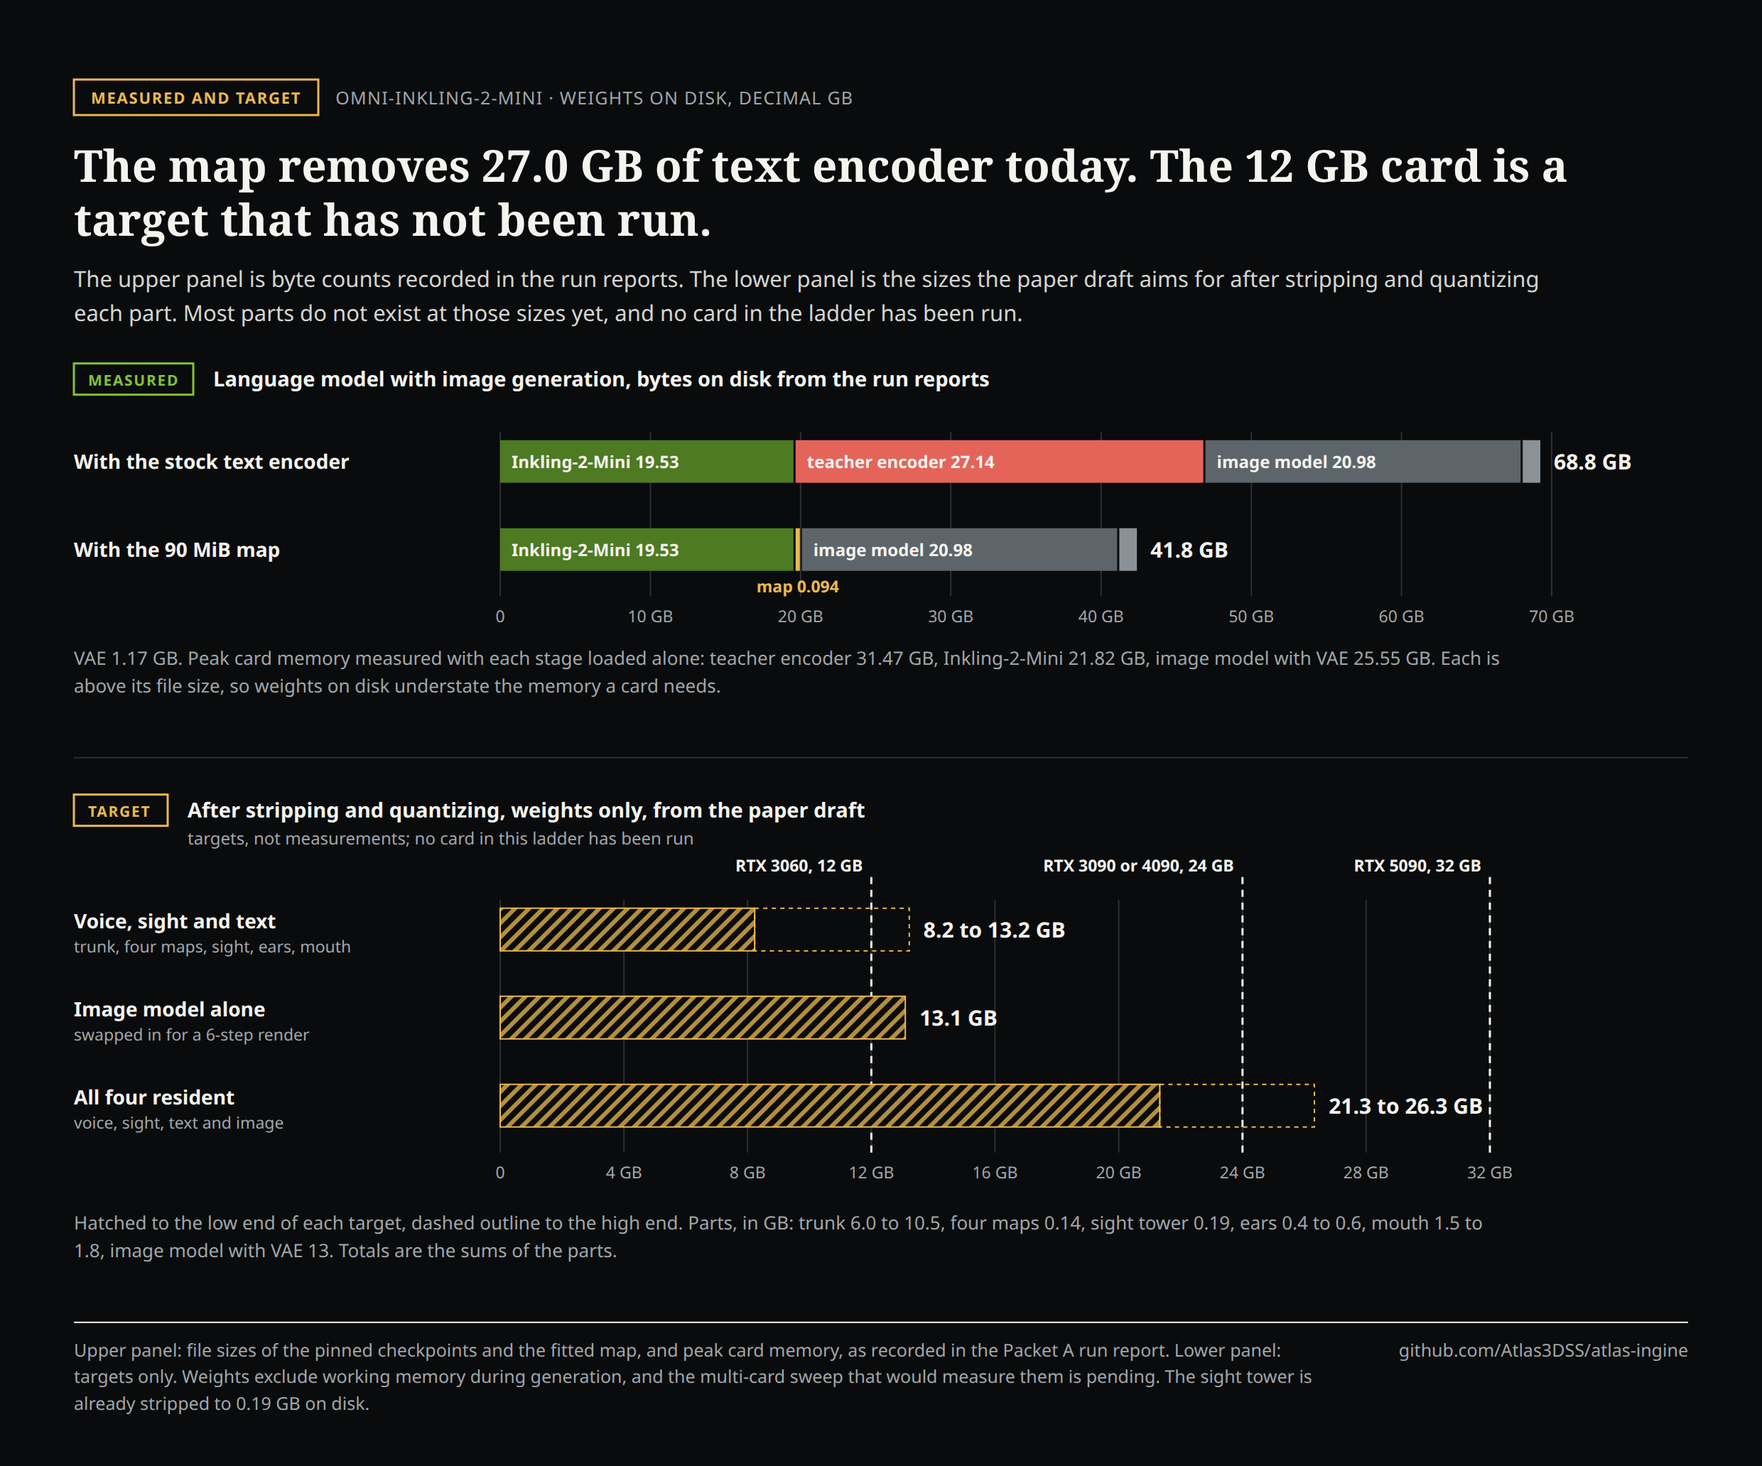
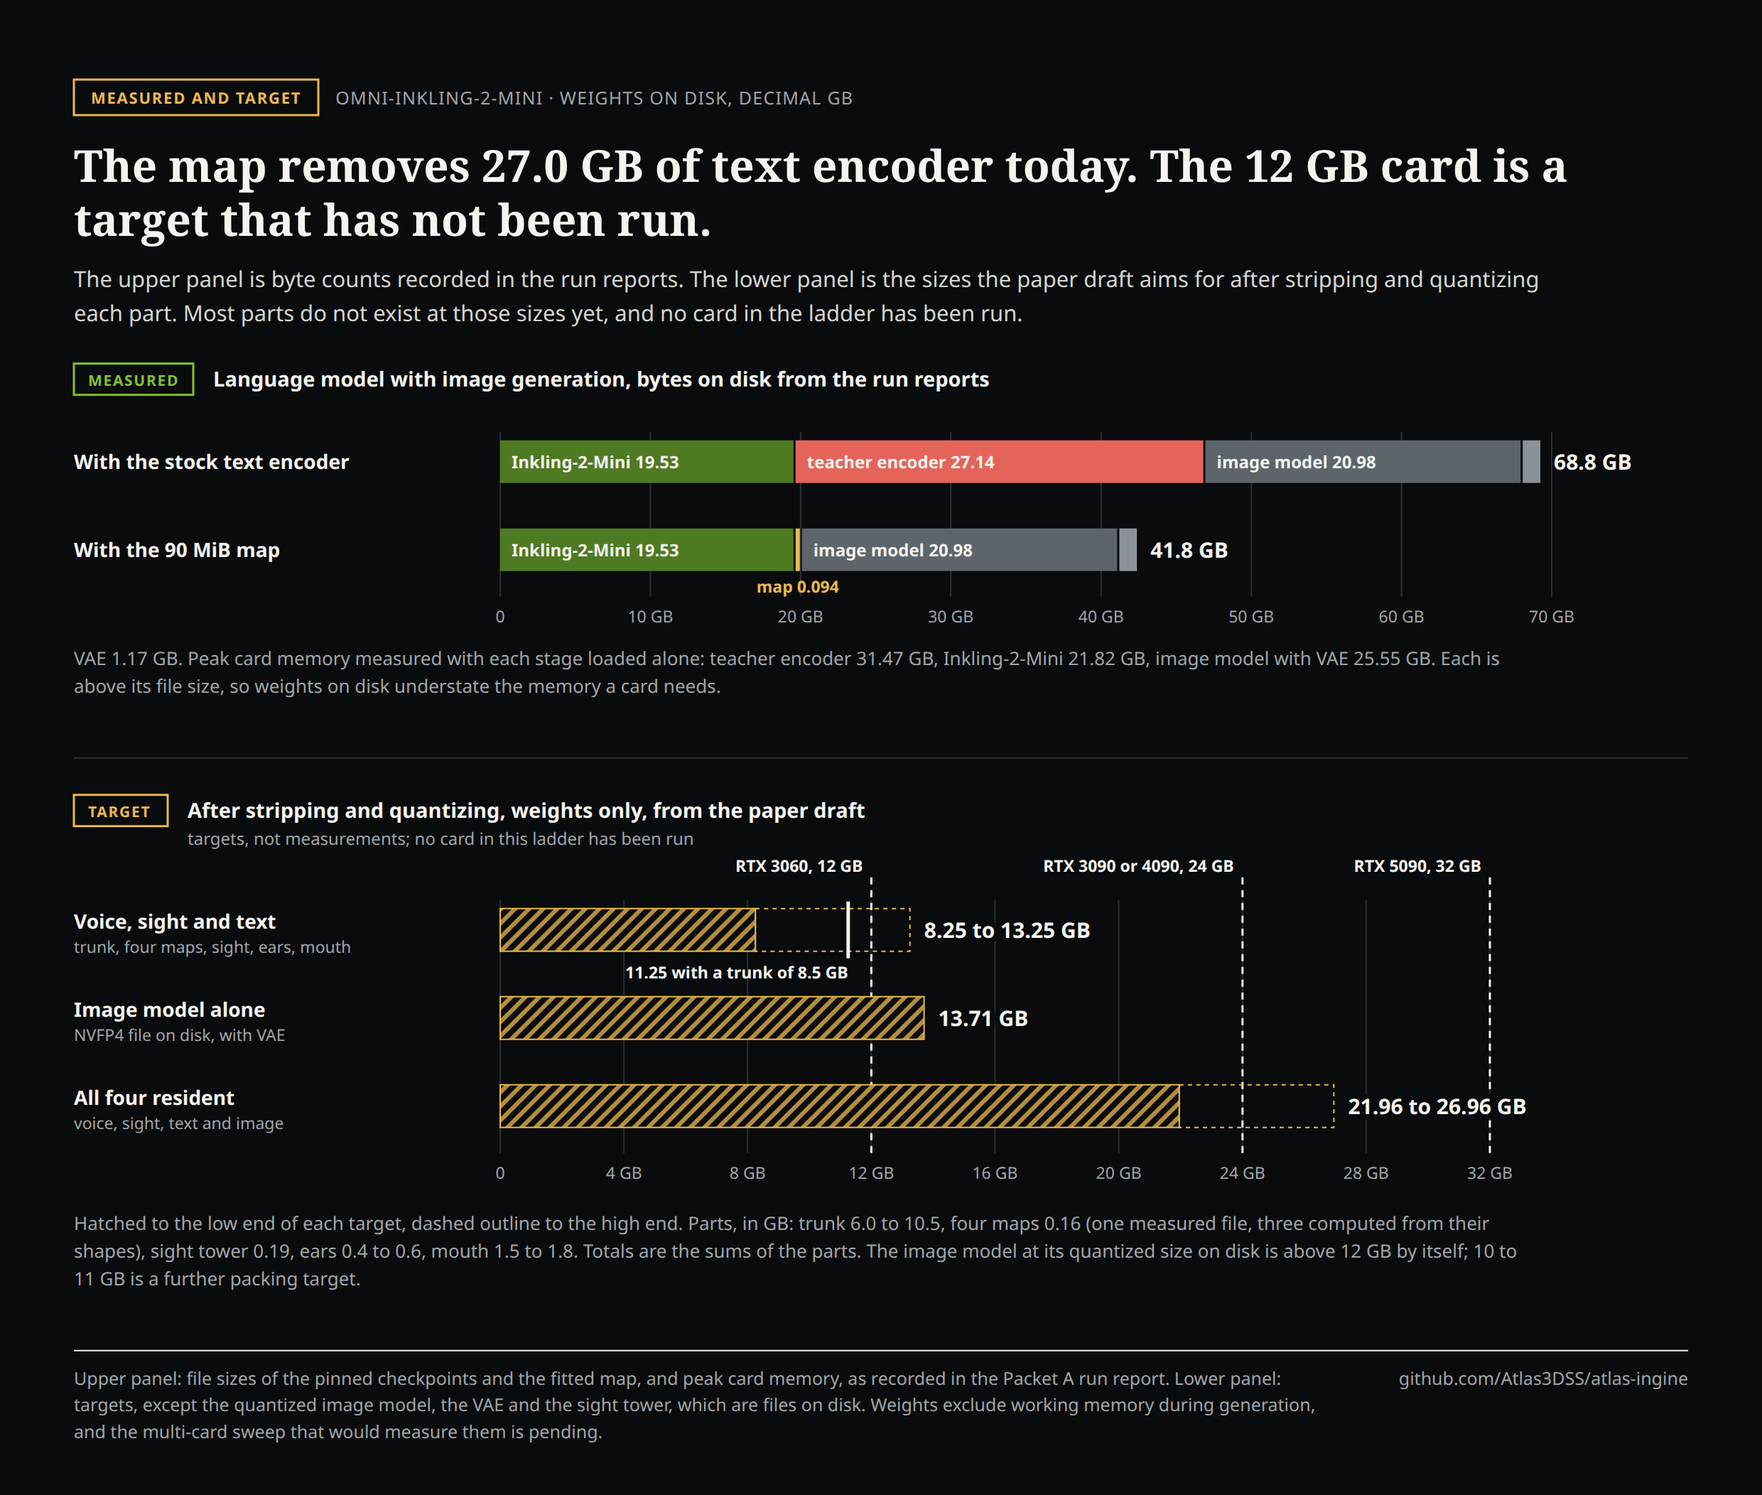
docs(912): fix exact 12.54/13.71/21.96-26.96 GB NVFP4 H3 sizes, embed all 3 figures, and lock Packet D YuE2 singing

diff --git a/modules/zero_gradient_omni_modal_grafting/figures/build_figures.py b/modules/zero_gradient_omni_modal_grafting/figures/build_figures.py
@@ -17,6 +17,7 @@ ap = argparse.ArgumentParser()
 ap.add_argument('--packet-a', default=f'{RUNS}/h3_platos_key_phase0_24p_a8146fa7/h3_platos_key_phase0_report.json')
 ap.add_argument('--packet-b', default=f'{RUNS}/vision_ridge_norm_dev_val192/vision_ridge_norm_dev_report.json')
 ap.add_argument('--strip', default=f'{RUNS}/phase0_912_spinup/packetB2_ocr_towers_strip_verify_report.json')
+ap.add_argument('--image-nvfp4', default=os.path.expanduser('~/dev_genius/models/minimax_h3_image_pruned_nvfp4.safetensors'))
 ap.add_argument('--paper', default=os.path.join(HERE, '..', 'PAPER.md'))
 ap.add_argument('--no-png', action='store_true')
 ARGS = ap.parse_args()
@@ -231,15 +232,27 @@ assert DIT_B == MF['dit_h3_image_int8_convrot_plus_vae']['dit_disk_bytes'] and V
 SEC6 = PAPER.split('## 6. System Footprint')[1].split('\n## ')[0]
 
 
+SEC62 = SEC6.split('### 6.2')[1]
+
+
+def trow(label): return next(line.split('|') for line in SEC62.splitlines() if line.startswith('|') and label in line.split('|')[1])
+
+
 def target(label):
-    """Low and high end, in GB, of the target column for one row of the paper's size table."""
-    row = next(line for line in SEC6.splitlines() if line.startswith('|') and label in line.split('|')[1])
-    m = re.search(r'([\d.]+)(?:[' + chr(0x2013) + r'-]([\d.]+))?\s*GB', row.split('|')[3]); return float(m.group(1)), float(m.group(2) or m.group(1))
+    """Low and high end, in GB, of the target cell for one row of the paper's projected-size table."""
+    m = re.search(r'\*\*([\d.]+)(?:' + chr(0x2013) + r'([\d.]+))?\*\*', trow(label)[2]); return float(m.group(1)), float(m.group(2) or m.group(1))
 
 
-TG = {k: target(lab) for k, lab in (('trunk', 'Trunk'), ('maps', 'Bridges'), ('sight', 'Sight'), ('ears', 'Ears'), ('mouth', 'Mouth'), ('image', 'Diffusion'))}
-VST = [sum(TG[k][i] for k in ('trunk', 'maps', 'sight', 'ears', 'mouth')) for i in (0, 1)]; ALL = [VST[i] + TG['image'][i] for i in (0, 1)]
-assert abs(gb(ST['got_ocr2']['stripped_bytes']) - TG['sight'][0]) < 0.01  # the sight target is the stripped tower already on disk
+TG = {k: target(lab) for k, lab in (('trunk', 'Trunk'), ('maps', 'Bridges'), ('sight', 'Sight'), ('ears', 'Ears'), ('mouth', 'Mouth'))}
+CAP = float(re.search(r'<=([\d.]+) GB', trow('Trunk')[2]).group(1))  # largest trunk the paper allows on a 12 GB card
+PACK = tuple(float(v) for v in re.search(r'~([\d.]+)' + chr(0x2013) + r'([\d.]+) GB', trow('Diffusion Image')[2]).groups())
+# The quantized image model is a file on disk, so its size is read from the file, not from the table.
+NV_B = os.path.getsize(ARGS.image_nvfp4); IMG = gb(NV_B + VAE_B); SOURCES[os.path.basename(ARGS.image_nvfp4) + ' (bytes)'] = NV_B
+REST = [sum(TG[k][i] for k in ('maps', 'sight', 'ears', 'mouth')) for i in (0, 1)]
+VST = [TG['trunk'][i] + REST[i] for i in (0, 1)]; VCAP = CAP + REST[1]; ALL = [VST[i] + IMG for i in (0, 1)]
+assert tuple(round(v, 2) for v in VST) == target('Voice + Sight + Text') and abs(gb(ST['got_ocr2']['stripped_bytes']) - TG['sight'][0]) < 0.01
+for nm, mine, theirs in (('image model with VAE', (IMG, IMG), target('Diffusion Image')), ('all four', tuple(ALL), target('Full 4-Modality'))):
+    if any(abs(a_ - b_) > 0.05 for a_, b_ in zip(mine, theirs)): print(f'NOTE: {nm}: files give {mine[0]:.2f} to {mine[1]:.2f} GB, PAPER.md states {theirs[0]:.2f} to {theirs[1]:.2f}')
 
 
 def rng(lo_hi, d=1): return f'{lo_hi[0]:.{d}f}' if lo_hi[0] == lo_hi[1] else f'{lo_hi[0]:.{d}f} to {lo_hi[1]:.{d}f}'
@@ -272,17 +285,18 @@ def fig3():
     s += f'<rect x="{M}" y="{y - 14}" width="66" height="22" fill="none" stroke="{AMBER}" stroke-width="1.5"/>' + t(M + 10, y + 1.5, 'TARGET', 10.5, AMBER, 'start', 700, ls='0.08em') + t(M + 80, y + 2, 'After stripping and quantizing, weights only, from the paper draft', 14.5, INK, 'start', 700) + t(M + 80, y + 21, 'targets, not measurements; no card in this ladder has been run', 12, SEC)
     y += 66; sc2 = (x1 - x0) / 34
     s += f'<defs><pattern id="hatch" width="7" height="7" patternUnits="userSpaceOnUse" patternTransform="rotate(45)"><rect width="7" height="7" fill="{BG}"/><rect width="3" height="7" fill="{AMBER}" fill-opacity="0.75"/></pattern></defs>'
-    trows = [('Voice, sight and text', 'trunk, four maps, sight, ears, mouth', VST), ('Image model alone', 'swapped in for a 6-step render', list(TG['image'])), ('All four resident', 'voice, sight, text and image', ALL)]
+    trows = [('Voice, sight and text', 'trunk, four maps, sight, ears, mouth', VST), ('Image model alone', 'NVFP4 file on disk, with VAE', [IMG, IMG]), ('All four resident', 'voice, sight, text and image', ALL)]
     for v in range(0, 35, 4): s += f'<line x1="{x0 + v * sc2:.1f}" x2="{x0 + v * sc2:.1f}" y1="{y - 6}" y2="{y + 3 * 62 - 14}" stroke="{RULE}"/>' + t(x0 + v * sc2, y + 3 * 62 + 4, f'{v} GB' if v else '0', 11.5, SEC, 'middle')
     for v, card in ((12, 'RTX 3060, 12 GB'), (24, 'RTX 3090 or 4090, 24 GB'), (32, 'RTX 5090, 32 GB')):
         s += f'<line x1="{x0 + v * sc2:.1f}" x2="{x0 + v * sc2:.1f}" y1="{y - 22}" y2="{y + 3 * 62 - 14}" stroke="{INK}" stroke-width="1.5" stroke-dasharray="5 4"/>' + t(x0 + v * sc2 - 6, y - 26, card, 11.5, INK, 'end', 700)
     for i, (lab, sub, (lo, hi)) in enumerate(trows):
         yy = y + i * 62; s += t(M, yy + 14, lab, 14, INK, 'start', 700) + t(M, yy + 31, sub, 11.5, SEC)
         s += f'<rect x="{x0}" y="{yy}" width="{lo * sc2:.1f}" height="{BH}" fill="url(#hatch)" stroke="{AMBER}" stroke-width="1"/><rect x="{x0 + lo * sc2:.1f}" y="{yy}" width="{(hi - lo) * sc2:.1f}" height="{BH}" fill="none" stroke="{AMBER}" stroke-width="1" stroke-dasharray="3 3"/>'
-        s += t(x0 + hi * sc2 + 10, yy + 20.5, f'{rng((lo, hi))} GB', 15, INK, 'start', 700)
+        s += t(x0 + hi * sc2 + 10, yy + 20.5, f'{rng((lo, hi), 2)} GB', 15, INK, 'start', 700).replace('<text ', f'<text paint-order="stroke" stroke="{BG}" stroke-width="7" stroke-linejoin="round" ')
+        if i == 0: s += f'<line x1="{x0 + VCAP * sc2:.1f}" x2="{x0 + VCAP * sc2:.1f}" y1="{yy - 5}" y2="{yy + BH + 5}" stroke="{INK}" stroke-width="2.5"/>' + t(x0 + VCAP * sc2, yy + BH + 19, f'{VCAP:.2f} with a trunk of {CAP:g} GB', 11.5, INK, 'end', 700)
     y += 3 * 62 + 40
-    h, y = para(M, y, f'Hatched to the low end of each target, dashed outline to the high end. Parts, in GB: trunk {rng(TG["trunk"])}, four maps {rng(TG["maps"], 2)}, sight tower {rng(TG["sight"], 2)}, ears {rng(TG["ears"])}, mouth {rng(TG["mouth"])}, image model with VAE {rng(TG["image"], 0)}. Totals are the sums of the parts.', 13, SEC, CW - 120, 1.5); s += h
-    f, H = footer(y + 46, f'Upper panel: file sizes of the pinned checkpoints and the fitted map, and peak card memory, as recorded in the Packet A run report. Lower panel: targets only. Weights exclude working memory during generation, and the multi-card sweep that would measure them is pending. The sight tower is already stripped to {gb(ST["got_ocr2"]["stripped_bytes"]):.2f} GB on disk.')
+    h, y = para(M, y, f'Hatched to the low end of each target, dashed outline to the high end. Parts, in GB: trunk {rng(TG["trunk"])}, four maps {rng(TG["maps"], 2)} (one measured file, three computed from their shapes), sight tower {rng(TG["sight"], 2)}, ears {rng(TG["ears"])}, mouth {rng(TG["mouth"])}. Totals are the sums of the parts. The image model at its quantized size on disk is above 12 GB by itself; {PACK[0]:g} to {PACK[1]:g} GB is a further packing target.', 13, SEC, CW - 120, 1.5); s += h
+    f, H = footer(y + 46, f'Upper panel: file sizes of the pinned checkpoints and the fitted map, and peak card memory, as recorded in the Packet A run report. Lower panel: targets, except the quantized image model, the VAE and the sight tower, which are files on disk. Weights exclude working memory during generation, and the multi-card sweep that would measure them is pending.')
     return doc(s + f, H)
 
 

diff --git a/modules/zero_gradient_omni_modal_grafting/PAPER.md b/modules/zero_gradient_omni_modal_grafting/PAPER.md
@@ -71,7 +71,9 @@ Three architectural invariants govern every graft:
 - **Why `concat4` beats single-tap:** Concatenating four loop visits (`9216`-dim → `5120`-dim, `λ = 10,000`) cuts held-out word MSE nearly `3×` (`10.11 → 3.60`), lifts `p10` word cosine from `0.5099` to `0.8159`, and closes the `17`-point functional retention gap (`82.29% → 99.21%`) at a total map cost of `90.0 MiB`.
 - **Why Procrustes failed on cross-dim looped MoE:** Inner-holdout orthogonal Procrustes with global variance matching scored `R² = -0.405` (`cos = 0.575`) on `2304 → 5120` compared to regularized ridge `R² = 0.9948` (`cos = 0.809`). Rectangular cross-family maps require non-orthogonal ridge shrinkage.
 
-### 3.3 Visual Sample (Packet A 8-Domain Contact Sheet)
+### 3.3 Visual Sample & Packet A Adherence Figure
+
+![Packet A Adherence & Map Size](figures/fig1_packetA_adherence_and_size.png)
 
 Four columns across all 8 domains (`teacher_reinject` · `inkling_platos_key_single_tap` · `inkling_platos_key_concat4` · `b0_shuffled_single_tap`), identical `dit_seed` and initial noise per row:
 
@@ -94,6 +96,9 @@ In the reverse direction (Vision → `Inkling-2-Mini` `EmbedRows`), we tested wh
 | **Overall (`N = 192`)** | **89/192 (46.4%)** | **72/192 / 62/192** | **73/192 / 60/192** | **36/192 / 29/192** |
 
 ### 4.2 Mechanism & Packet B2 Intervention
+
+![Packet B Domain Boundary](figures/fig2_packetB_ocr_boundary.png)
+
 - **Result:** `ridge_norm` was **rejected** (`73/192` vs `72/192` agree `p = 1.0`, `60/192` vs `62/192` gold `p = 0.727`; native mean KL worsened `2.24 → 2.38`).
 - **Boundary law:** A closed-form linear map bridges coarse semantic and spatial geometry (`counting_spatial`: `45/48` teacher agreement, `40/48` gold vs `17/48` shuffled), but **cannot recover high-frequency glyph pixels already blurred out by a coarse upstream vision grid**.
 - **Packet B2 causal test (in progress):** Strip the `620M`-parameter text decoder off `stepfun-ai/GOT-OCR2_0` (retaining only its **`191 MB`**, `95.6M`-param high-resolution vision pyramid) and `google/siglip2-base-patch16-naflex` (**`343 MB`** vision-only), apply gradient-guided tile masking (`121/260` uniform background tiles dropped while preserving exact spatial coordinates), and re-fit the exact same closed-form linear bridge onto frozen `Inkling-2-Mini`. Stage 1 extraction finished in `186.8 s` at `1.56 GiB` peak VRAM (`att-5a611ab6`); Stage 2 FP64 ridge fits are running on Quincy CPU.
@@ -125,30 +130,48 @@ Before fitting audio Plato's Keys, Packet C ran a fail-closed Native Gate 0 acro
 
 ---
 
-## 6. System Footprint, Native Video+Audio Diffusion, & Consumer-GPU Ladder
+## 6. System Footprint, Native Video+Audio Diffusion, & Consumer-GPU Targets
 
-Because `MiniMax-H3`'s full **Audio+Video DiT** (`minimax_h3_fl2va_pruned_int8_convrot.safetensors`, **`20 GB`** on disk, plus `3.0 GB` video VAE and `578 MB` audio VAE) conditions on the **exact same `Qwen3-VL-32B` Layer-50 `5120`-dim space** as `MiniMax-H3` Image, the **exact same `90.0 MiB` Packet A Plato's Key** targets native video + synchronized audio generation at **zero extra bridge bytes** (functional video temporal-coherence gate `PENDING`). An already-quantized **`12 GB` NVFP4/W4A8** H3 Image DiT (`minimax_h3_image_pruned_nvfp4.safetensors`) is verified on disk.
+All sizes below use **decimal GB (`10^9` bytes)** consistently and separate **measured files / peak VRAM** from **unmeasured projection targets**. Because `MiniMax-H3`'s full **Audio+Video DiT** (`minimax_h3_fl2va_pruned_int8_convrot.safetensors`, `21.0 GB` decimal / `20 GiB` on disk, plus `3.2 GB` video VAE and `0.61 GB` audio VAE) conditions on the **exact same `Qwen3-VL-32B` Layer-50 `5120`-dim space** as `MiniMax-H3` Image, the **exact same `94.4 MB` (`90.0 MiB`) Packet A Plato's Key** targets native video + synchronized audio generation at **zero extra bridge bytes** (functional video temporal-coherence gate `PENDING`). An already-quantized **`12.54 GB` (`11.68 GiB`, `12,537,569,802` bytes) NVFP4** H3 Image DiT (`minimax_h3_image_pruned_nvfp4.safetensors`) is also on disk.
 
-| Component | Current Verified Disk / VRAM | Stripped + Atlas-Quantized Target | Precision Invariant |
+### 6.1 Measured Baseline vs Packet A Replacement (Decimal GB)
+
+| Component | Measured Disk (GB) | Measured Peak VRAM (GB) | Status |
 |---|---:|---:|---|
-| `Inkling-2-Mini` Trunk | 19.0 GB (`NVFP4`) / 10.5 GB (`atlas-10.5g`) | **6.0–10.5 GB** | Frozen trunk (`0.0%` forgetting) |
-| All 4 Plato's Key Bridges | **0.14 GB** (`90 + 16 + 7 + 38 MiB`) | **0.14 GB** | Keep FP16 (same `90 MiB` key targets H3 Image & FL2VA Video+Audio) |
-| Sight (`GOT-OCR2` vision tower) | **0.19 GB** *(already stripped)* | **0.19 GB** | `620M` decoder deleted |
-| Ears (`Gemma-4-E2B` Conformer) | 4.90 GB *(unstripped checkpoint)* | **~0.4–0.6 GB** | Strip text LLM, keep Conformer |
-| Mouth (`Qwen3-TTS-1.7B` + codec) | 4.95 GB (`4.3 GB` BF16 + `651 MB` codec) | **~1.5–1.8 GB** | Quantize talker; keep codec FP16 |
-| Diffusion Image (`MiniMax-H3` DiT + VAE) | **13.1 GB** (`12 GB` NVFP4 DiT + `1.1 GB` VAE) *(or `21.1 GB` INT8)* | **13.1 GB** *(already on disk!)* | NVFP4 DiT; keep VAE FP16 |
-| Diffusion Video+Audio (`MiniMax-H3 FL2VA`) | **23.6 GB** (`20 GB` INT8 DiT + `3.0 GB` Video VAE + `0.58 GB` Audio VAE) | **~15.6 GB** *(w/ NVFP4 FL2VA DiT)* | Shares exact same `90 MiB` Packet A key |
-| **Voice + Sight + Text Total** | **~29 GB** *(~20.5 GB elastic)* | **~8.3–11.2 GB** | **100% resident on 12 GB RTX 3060** |
-| **Full 4-Modality (+ Native Image Gen)** | **~42 GB** *(~33.6 GB elastic; −27.1 GB vs teacher)* | **~21.4–24.3 GB** *(or 12 GB w/ 6-step DiT swap)* | Single 24 GB 3090/4090 resident; 12 GB 3060 via burst swap |
+| Eliminated Teacher (`Qwen3-VL-32B` L50 INT8) | **27.14** | **31.47** | Replaced by `0.094 GB` Packet A `concat4` key (`288×` smaller) |
+| `Inkling-2-Mini` NVFP4 Donor Trunk | **19.53** | **21.82** | Measured isolated (`Packet A` report) |
+| `MiniMax-H3` Image DiT INT8 + FP16 VAE | **22.15** (`20.98 + 1.17`) | **25.55** | Measured isolated (`Packet A` report) |
+| Packet A `concat4` / `single_tap` Bridges | **0.094** / **0.024** | — | Fitted FP16 `.safetensors` files (`att-f55d4648`) |
+| Sight (`GOT-OCR2` stripped vision tower) | **0.191** | **1.56** *(Stage 1 extract)* | `620.5M` decoder stripped (`att-5a611ab6`) |
+| Unstripped Ears (`Gemma-4-E2B` INT8) | **5.20** | — | Full checkpoint on disk (Conformer not yet stripped) |
+| Unquantized Mouth (`Qwen3-TTS-1.7B` BF16 + codec) | **~5.31** (`4.62 + 0.68`) | — | Full BF16 weights on disk (not yet quantized) |
+
+### 6.2 Projected Stripped + Quantized Deployment Targets (Not Yet Measured on Silicon)
+
+*(Bridge sizes for B2 Sight `~0.016 GB`, C Ears `0.007 GB`, and C Mouth `0.038 GB` are FP16 shape arithmetic until fitted; Packet A `0.094 GB` is a measured file. Disk weights always understate live VRAM due to KV cache and activations.)*
+
+| Component | Target Weights (Decimal GB) | Precision / Engineering Rule |
+|---|---:|---|
+| `Inkling-2-Mini` Elastic Trunk (`atlas-6g` / `atlas-8g` / `atlas-10.5g`) | **6.0–10.5** *(<=8.5 GB required for 12 GB residency)* | Frozen trunk (`0.0%` forgetting) |
+| All 4 Plato's Key Bridges (`A` measured + `B2/C` shape arithmetic) | **0.16** (`0.094 + 0.016 + 0.007 + 0.038`) | Keep FP16 |
+| Sight (`GOT-OCR2` stripped tower, measured on disk) | **0.19** | Already stripped |
+| Ears (`Gemma-4-E2B` stripped Conformer, target) | **0.40–0.60** | Strip text LLM, keep Conformer |
+| Mouth (`Qwen3-TTS-1.7B` quantized talker + FP16 codec, target) | **1.50–1.80** | Quantize talker; keep `0.68 GB` codec FP16 |
+| **Voice + Sight + Text Weight Sum (exact row sum)** | **8.25–13.25** *(**8.25–11.25** with `<=8.5 GB` trunk)* | **12 GB RTX 3060 residency requires `<=8.5 GB` trunk** (leaving KV/activation headroom) |
+| Diffusion Image (`MiniMax-H3` NVFP4 DiT `12.54 GB` on disk + `1.17 GB` VAE) | **13.71** *(further packing target `~10–11 GB` not yet built)* | Keep `1.17 GB` VAE FP16 |
+| **Full 4-Modality Weight Sum (+ On-Disk NVFP4 H3 Image)** | **21.96–26.96** | Single 24–32 GB card resident (`<=8.5 GB` trunk); 12 GB 3060 requires block-level DiT streaming or further packing to `<=10–11 GB` |
+
+![Measured Footprint vs Target Ladder](figures/fig3_omni_footprint_ladder.png)
 
 ---
 
 ## 7. Pending Sections (Auto-Populating as Gates Clear)
 
-- **Section 7.1 — Packet A Sealed 160-Prompt Confirmation:** `PENDING` (`v4` runner `att-5ddf9e3c` in review; queued at priority 1 on Colab G4 / local PRO 6000).
-- **Section 7.2 — Packet B2 High-Res OCR Repair (Dev-192 & Locked-448):** `PENDING` (Quincy CPU Stage 2 fits running; paired Stock vs Ours tile-mask visual proofs to follow).
-- **Section 7.3 — Packet C Direct Ears & Mouth Phase 0 + Unforced Hello-World Lace:** `PENDING` (lexical minimal pairs, acoustic intonation pairs, silence controls, and unforced greeting audio).
-- **Section 7.4 — Two-Stage Multi-Card Silicon Sweep:**
+- **Section 7.1 — Packet A Sealed 160-Prompt Confirmation & Native `FL2VA` Video+Audio Check:** `PENDING` (`v4` floor cleared `att-615740cb`; priority 1 on Colab G4 / local PRO 6000; FL2VA 4-prompt native video+sound check uses the exact same `90.0 MiB` key).
+- **Section 7.2 — Packet B2 High-Res OCR Repair (Dev-192 & Locked-448):** `PENDING` (Quincy CPU Stage 2 fits running now; paired Stock vs Ours tile-mask visual proofs to follow).
+- **Section 7.3 — Packet C Direct Ears & Mouth Phase 0 + Unforced Representation Lace (`visits 41..47`):** `PENDING` (lexical minimal pairs, acoustic intonation pairs, silence controls, unforced greeting audio, and unscripted visual self-concept).
+- **Section 7.4 — Packet D Singing / Music (`m-a-p/YuE2-3B` + `YuE2-Vae`, 48 kHz Stereo):** `PENDING` (Native Gate 0 + continuous conditioning / ABC-notation score seam, including Inkling singing *The Star-Spangled Banner*, public domain).
+- **Section 7.5 — Two-Stage Multi-Card Silicon Sweep:**
   - *Stage 1 (Local First):* `RTX PRO 6000` (`sm_120a`), `RTX 3090` (`sm_86`), `RTX 4090` (`sm_89`), `V100-32GB` (`sm_70`).
   - *Stage 2 (Vast Full-Fleet Sweep):* `RTX 3060 12GB` through `RTX 5090 32GB` and full Pascal → Blackwell ladder.
-- **Section 7.5 — 100% Model-Authored Showcase Video & Full Auditable Process Trace:** `PENDING` (see [PROCESS_LOG.md](PROCESS_LOG.md)).
+- **Section 7.6 — 100% Model-Authored Showcase Videos & Full Auditable Process Trace + Centaur History (`platonica`):** `PENDING` (see [PROCESS_LOG.md](PROCESS_LOG.md)).
